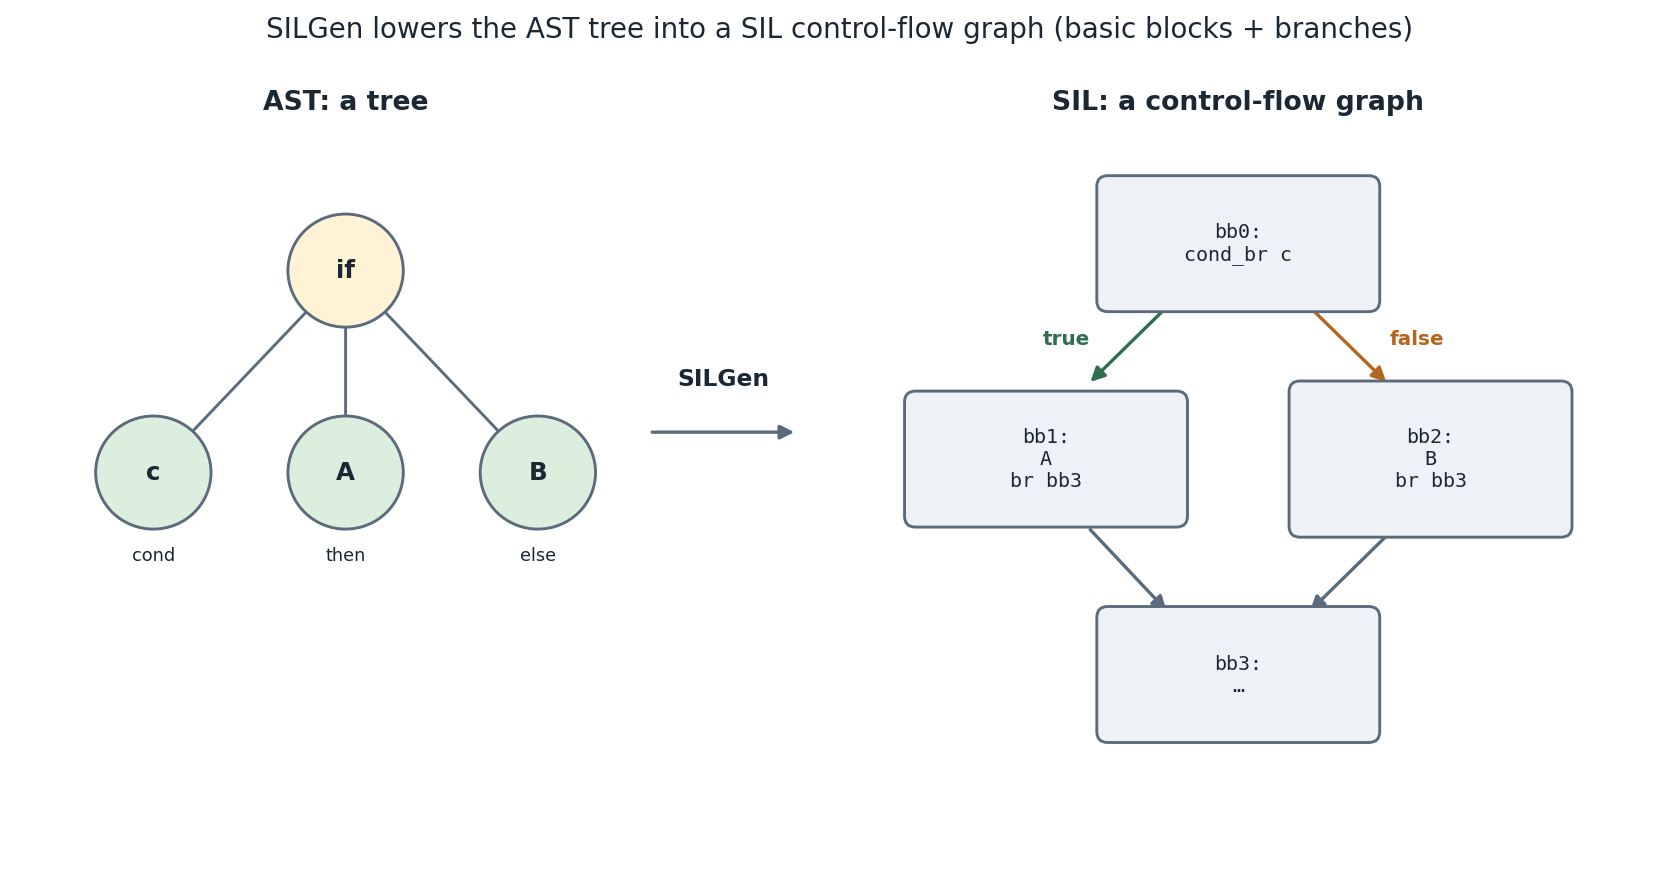
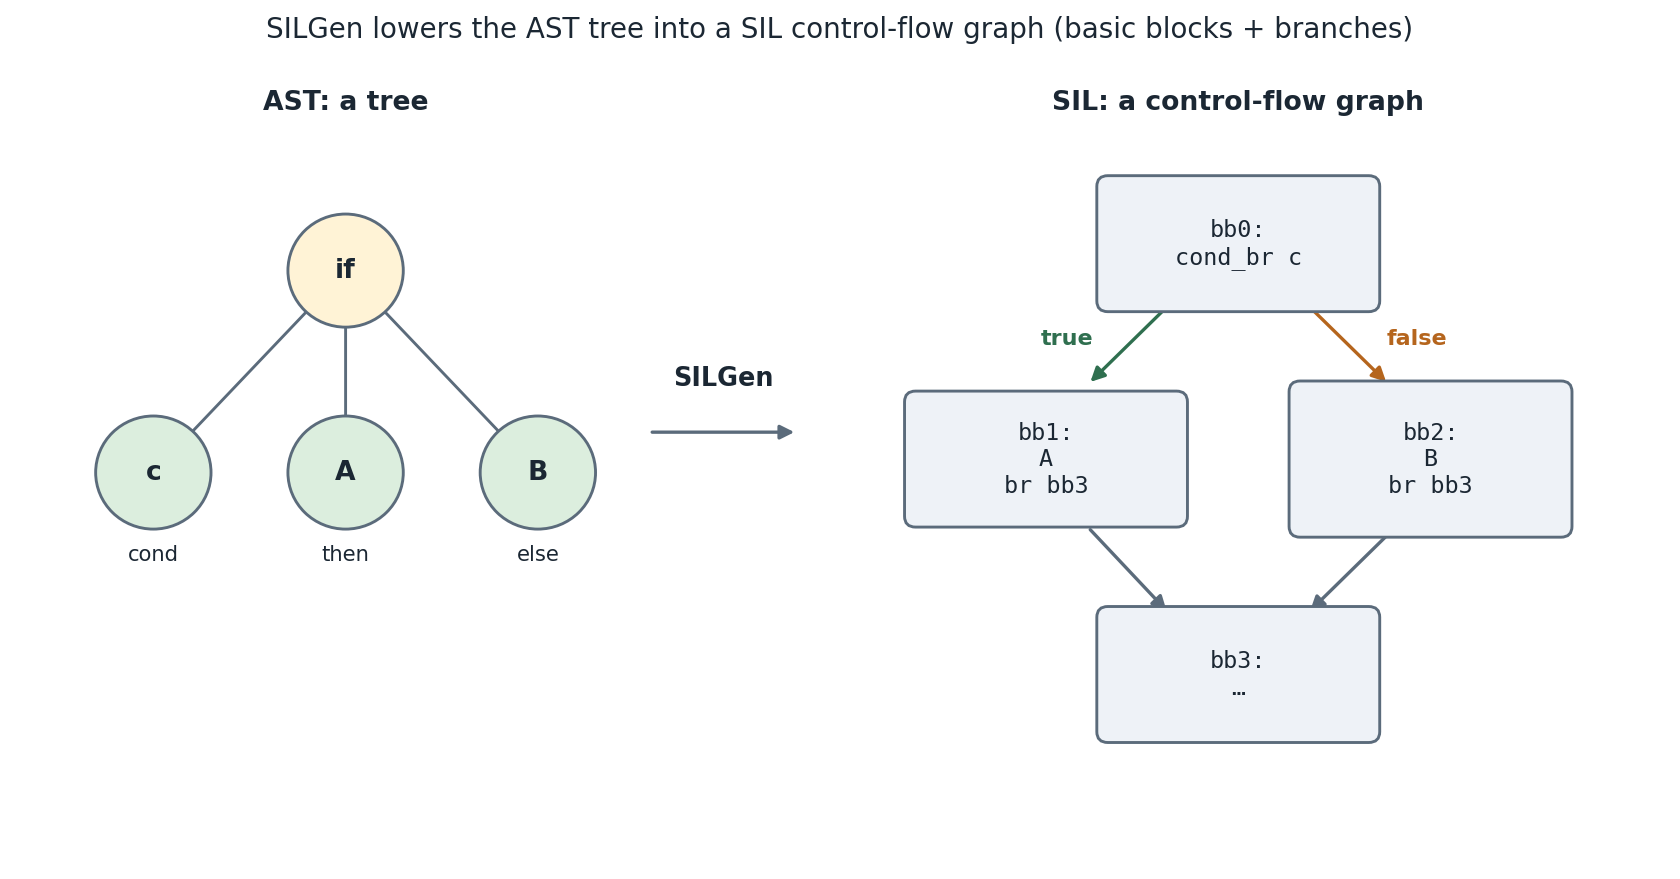
08 figure: raise the text a step; it was the smallest in the phase
The tree-to-CFG figure set block bodies at 9pt and the cond/then/else captions at 8pt, against
10.5 and 9.5 for the same kinds of label in concept 06's CFG figure. Bodies and AST captions go to
10.5 / 9.5, edge labels 9 to 10, node labels 11 to 12, the SILGen label 10.5 to 11.5 -- so the two
control-flow figures in the phase are now sized alike.

Measured rather than eyeballed: every text object's rendered extent against the box that contains
it, tightest fit 17.6px of slack (the three-line bb1 block). PNG regenerated and committed.

Claude-Session: https://claude.ai/code/session_01E5zUv2c7khbP7wNrCQ6RC9

diff --git a/course/phase2-types-flow/08-sil-silgen/figs/make_figs.py b/course/phase2-types-flow/08-sil-silgen/figs/make_figs.py
@@ -26,13 +26,13 @@ F = "#b5651d"
 
 def circle(ax, x, y, label, color, r=0.42):
     ax.add_patch(Circle((x, y), r, facecolor=color, edgecolor=EDGE, linewidth=1.3, zorder=3))
-    ax.text(x, y, label, ha="center", va="center", fontsize=11, fontweight="bold", color=TEXT, zorder=4)
+    ax.text(x, y, label, ha="center", va="center", fontsize=12, fontweight="bold", color=TEXT, zorder=4)
 
 
 def blk(ax, x, y, lines, color, w=2.0, h=0.95):
     ax.add_patch(FancyBboxPatch((x - w / 2, y - h / 2), w, h, boxstyle="round,pad=0.03,rounding_size=0.08",
                  linewidth=1.3, edgecolor=EDGE, facecolor=color, zorder=3))
-    ax.text(x, y, "\n".join(lines), ha="center", va="center", fontsize=9, family="monospace", color=TEXT, zorder=4)
+    ax.text(x, y, "\n".join(lines), ha="center", va="center", fontsize=10.5, family="monospace", color=TEXT, zorder=4)
 
 
 def line(ax, p0, p1, color=EDGE):
@@ -43,7 +43,7 @@ def arr(ax, p0, p1, color=EDGE, label=None, lx=0, ly=0):
     ax.add_patch(FancyArrowPatch(p0, p1, arrowstyle="-|>", mutation_scale=13, linewidth=1.5, color=color, zorder=2))
     if label:
         ax.text((p0[0] + p1[0]) / 2 + lx, (p0[1] + p1[1]) / 2 + ly, label, ha="center", color=color,
-                fontsize=9, fontweight="bold", zorder=5)
+                fontsize=10, fontweight="bold", zorder=5)
 
 
 def make_lowering():
@@ -62,13 +62,13 @@ def make_lowering():
     circle(ax, *c, "c", LEAF)
     circle(ax, *th, "A", LEAF)
     circle(ax, *el, "B", LEAF)
-    ax.text(c[0], c[1] - 0.65, "cond", ha="center", fontsize=8, color=TEXT)
-    ax.text(th[0], th[1] - 0.65, "then", ha="center", fontsize=8, color=TEXT)
-    ax.text(el[0], el[1] - 0.65, "else", ha="center", fontsize=8, color=TEXT)
+    ax.text(c[0], c[1] - 0.65, "cond", ha="center", fontsize=9.5, color=TEXT)
+    ax.text(th[0], th[1] - 0.65, "then", ha="center", fontsize=9.5, color=TEXT)
+    ax.text(el[0], el[1] - 0.65, "else", ha="center", fontsize=9.5, color=TEXT)
 
     # ---- middle arrow ----
     arr(ax, (4.6, 3.2), (5.7, 3.2), EDGE)
-    ax.text(5.15, 3.55, "SILGen", ha="center", fontsize=10.5, fontweight="bold", color=TEXT)
+    ax.text(5.15, 3.55, "SILGen", ha="center", fontsize=11.5, fontweight="bold", color=TEXT)
 
     # ---- right: the SIL CFG (a graph) ----
     ax.text(8.9, 5.6, "SIL: a control-flow graph", ha="center", fontsize=12, fontweight="bold", color=TEXT)
